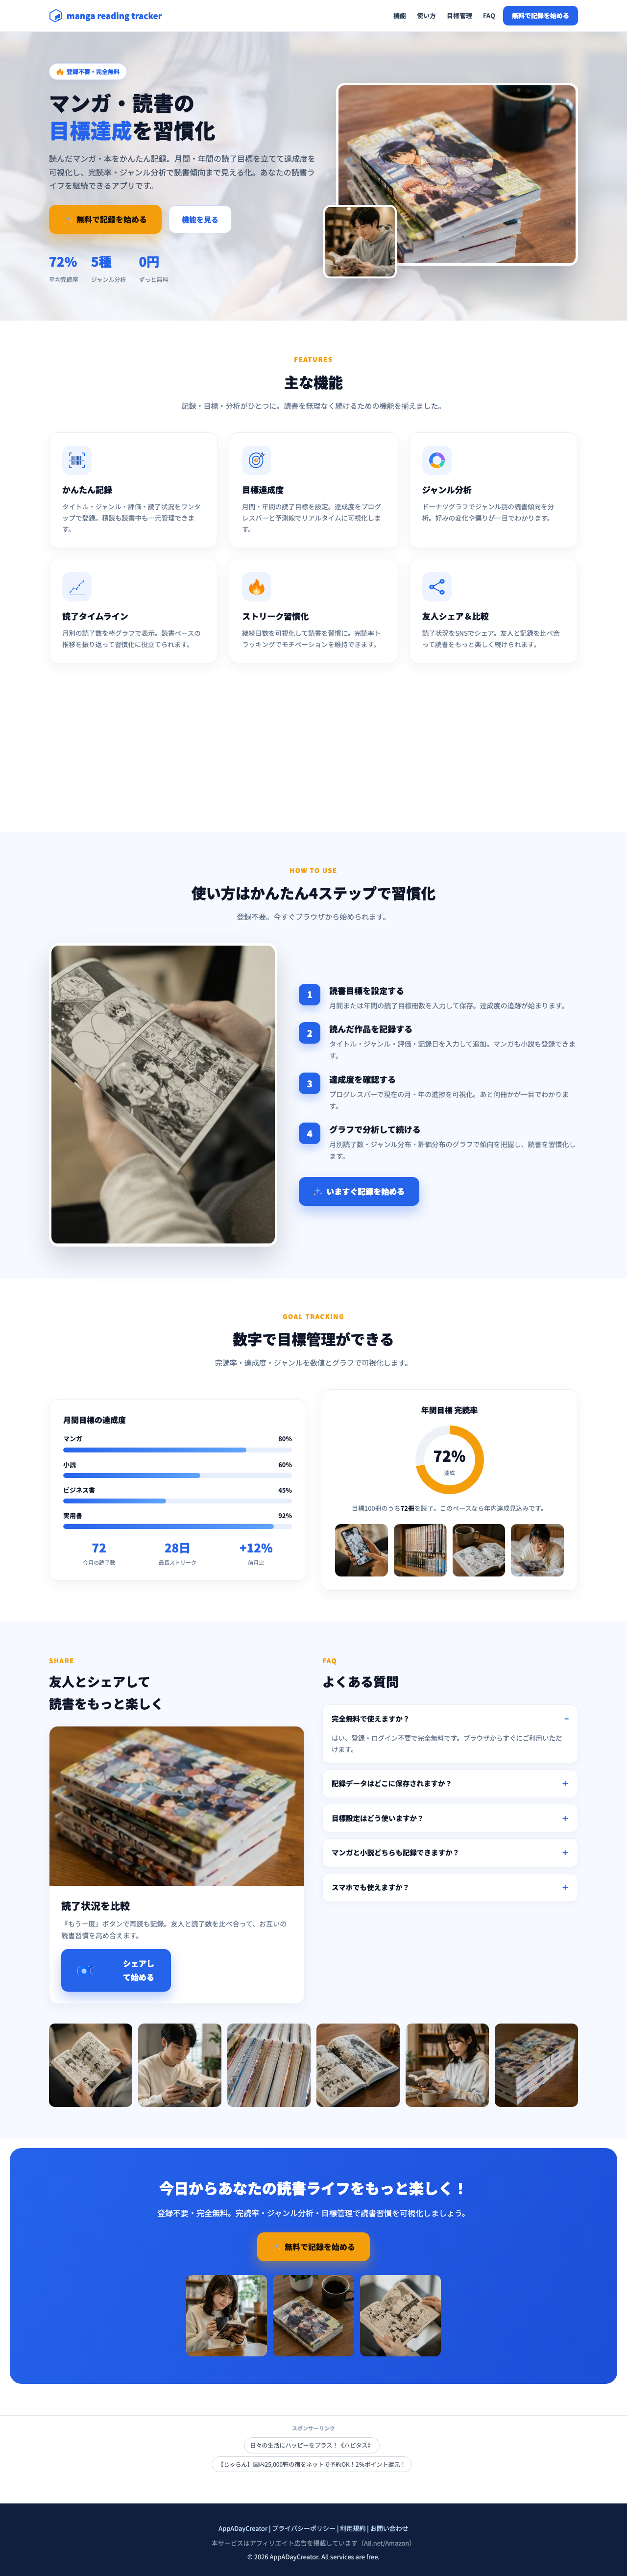
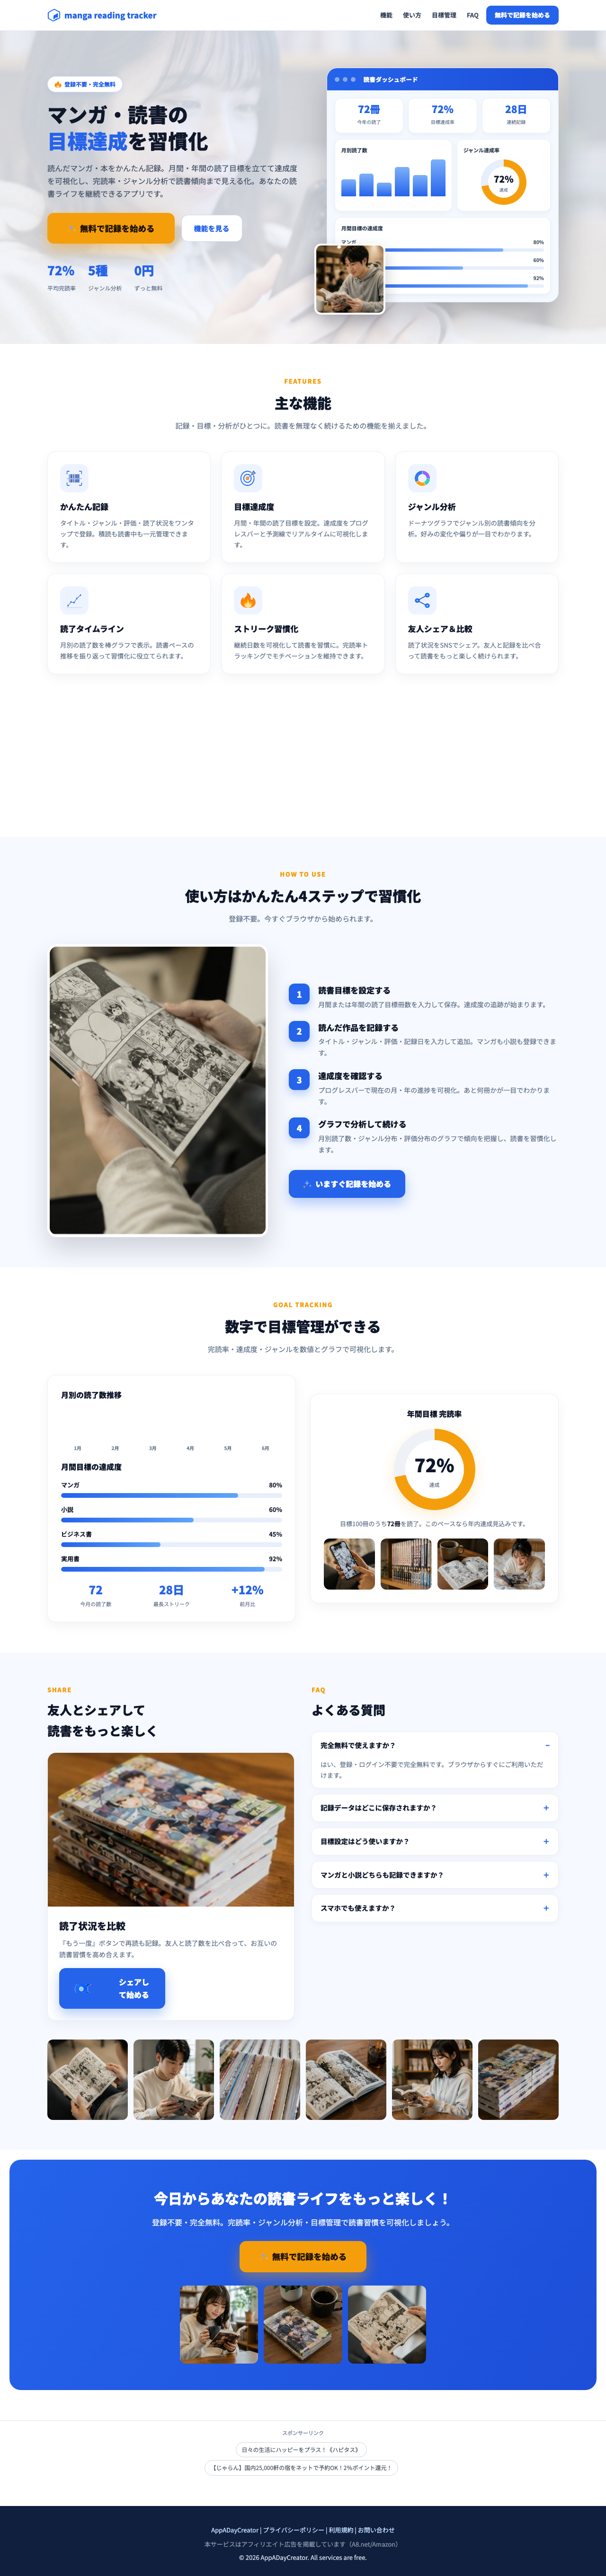
Rollback: step7 pass1 regressed (68->62)

diff --git a/lp/index.html b/lp/index.html
@@ -53,13 +53,13 @@ a{text-decoration:none;}
 /* hero */
 .hero{position:relative;overflow:hidden;background:linear-gradient(180deg,#eef4ff,#f6f9ff);}
 .hero .bg{position:absolute;inset:0;background:url('../assets/photos/photo_01.jpg') center/cover;opacity:.16;}
-.hero .inner{position:relative;display:grid;grid-template-columns:1.05fr .95fr;gap:48px;align-items:center;padding:78px 20px 88px;max-width:1120px;margin:0 auto;}
+.hero .inner{position:relative;display:grid;grid-template-columns:1.05fr .95fr;gap:40px;align-items:center;padding:64px 20px 72px;max-width:1120px;margin:0 auto;}
 .badge{display:inline-flex;align-items:center;gap:6px;background:#fff;border:1px solid #d6e2fb;color:var(--blue);padding:6px 14px;border-radius:30px;font-size:12px;font-weight:800;margin-bottom:18px;box-shadow:0 4px 14px rgba(37,99,235,.08);}
 .hero h1{font-size:42px;line-height:1.32;font-weight:900;letter-spacing:.5px;margin-bottom:18px;}
 .hero h1 .hl{color:var(--blue);}
 .hero p.lead{font-size:16px;color:#475569;margin-bottom:26px;}
 .ctas{display:flex;gap:14px;flex-wrap:wrap;align-items:center;}
-.btn-amber{background:var(--amber);color:#1f1300;font-weight:900;padding:18px 42px;border-radius:14px;font-size:17.5px;box-shadow:0 14px 30px rgba(245,158,11,.42);display:inline-flex;align-items:center;gap:9px;}
+.btn-amber{background:var(--amber);color:#1f1300;font-weight:900;padding:16px 30px;border-radius:14px;font-size:16px;box-shadow:0 12px 26px rgba(245,158,11,.38);display:inline-flex;align-items:center;gap:8px;}
 .btn-amber:hover{filter:brightness(1.05);}
 .btn-blue{background:var(--blue);color:#fff;font-weight:900;padding:16px 30px;border-radius:14px;font-size:16px;box-shadow:0 12px 26px rgba(37,99,235,.32);display:inline-flex;align-items:center;gap:8px;}
 .btn-out{border:1.5px solid #c7d6f5;color:var(--blue);font-weight:800;padding:15px 26px;border-radius:14px;font-size:15px;background:#fff;}
@@ -72,29 +72,6 @@ a{text-decoration:none;}
 .trust div b{display:block;font-size:26px;font-weight:900;color:var(--blue);}
 .trust div span{font-size:12px;color:var(--muted);}
 @media(max-width:860px){.hero .inner{grid-template-columns:1fr;padding:46px 20px 56px;}.hero h1{font-size:30px;}.hero .vis .mini{display:none;}}
-/* hero app mockup */
-.appshot{position:relative;background:#fff;border-radius:22px;box-shadow:0 34px 70px rgba(2,6,23,.22);border:1px solid #e6edf7;overflow:hidden;}
-.appshot .appbar{display:flex;align-items:center;gap:7px;padding:13px 16px;background:linear-gradient(90deg,var(--blue),var(--blue-d));}
-.appshot .appbar .dot{width:10px;height:10px;border-radius:50%;background:rgba(255,255,255,.45);}
-.appshot .appbar .t{margin-left:10px;color:#fff;font-weight:800;font-size:12.5px;letter-spacing:.3px;}
-.appbody{padding:16px;display:flex;flex-direction:column;gap:12px;background:#f4f8ff;}
-.kpis{display:grid;grid-template-columns:repeat(3,1fr);gap:10px;}
-.kpi{background:#fff;border:1px solid #e9eff8;border-radius:13px;padding:11px 6px;text-align:center;box-shadow:0 4px 12px rgba(2,6,23,.04);}
-.kpi b{display:block;font-size:21px;font-weight:900;color:var(--blue);line-height:1.1;}
-.kpi span{font-size:10px;color:var(--muted);}
-.appcards{display:grid;grid-template-columns:1.25fr 1fr;gap:10px;}
-.appcard{background:#fff;border:1px solid #e9eff8;border-radius:13px;padding:13px;box-shadow:0 4px 12px rgba(2,6,23,.04);}
-.appcard .h{font-size:11px;font-weight:800;color:#334155;margin-bottom:11px;}
-.bars{display:flex;align-items:flex-end;gap:7px;height:78px;}
-.bars i{flex:1;background:linear-gradient(180deg,#7cb0fb,var(--blue));border-radius:5px 5px 0 0;}
-.dnut{width:96px;height:96px;border-radius:50%;background:conic-gradient(var(--amber) 0 72%,#e7eefc 72% 100%);margin:2px auto 0;display:flex;align-items:center;justify-content:center;}
-.dnut .c{width:66px;height:66px;border-radius:50%;background:#fff;display:flex;flex-direction:column;align-items:center;justify-content:center;}
-.dnut .c b{font-size:19px;font-weight:900;color:var(--ink);}
-.dnut .c span{font-size:9px;color:var(--muted);}
-.appgoals .gr{display:flex;justify-content:space-between;font-size:10.5px;font-weight:700;color:#475569;margin-bottom:4px;}
-.appgoals .gb{height:7px;background:#e7eefc;border-radius:6px;overflow:hidden;margin-bottom:9px;}
-.appgoals .gb:last-child{margin-bottom:0;}
-.appgoals .gb i{display:block;height:100%;background:linear-gradient(90deg,var(--blue),#7cb0fb);border-radius:6px;}
 /* section */
 section{padding:64px 0;}
 .sec-head{text-align:center;margin-bottom:42px;}
@@ -129,13 +106,9 @@ section{padding:64px 0;}
 .progress .top{display:flex;justify-content:space-between;font-size:13px;font-weight:700;margin-bottom:6px;}
 .bar{height:10px;background:#e7eefc;border-radius:8px;overflow:hidden;}
 .bar i{display:block;height:100%;background:linear-gradient(90deg,var(--blue),#60a5fa);border-radius:8px;}
-.ring{width:172px;height:172px;border-radius:50%;background:conic-gradient(var(--amber) 0 72%,#eef2f7 72% 100%);display:flex;align-items:center;justify-content:center;margin:0 auto;box-shadow:0 10px 30px rgba(245,158,11,.18);}
-.ring .in{width:124px;height:124px;border-radius:50%;background:#fff;display:flex;flex-direction:column;align-items:center;justify-content:center;}
-.ring .in b{font-size:38px;font-weight:900;color:var(--ink);}
-.mbars{display:flex;align-items:flex-end;gap:9px;height:96px;margin:6px 0 18px;}
-.mbars .col{flex:1;display:flex;flex-direction:column;align-items:center;gap:5px;}
-.mbars .col i{width:100%;background:linear-gradient(180deg,#7cb0fb,var(--blue));border-radius:6px 6px 0 0;}
-.mbars .col span{font-size:10px;color:var(--muted);font-weight:700;}
+.ring{width:140px;height:140px;border-radius:50%;background:conic-gradient(var(--amber) 0 72%,#eef2f7 72% 100%);display:flex;align-items:center;justify-content:center;margin:0 auto;}
+.ring .in{width:104px;height:104px;border-radius:50%;background:#fff;display:flex;flex-direction:column;align-items:center;justify-content:center;}
+.ring .in b{font-size:30px;font-weight:900;color:var(--ink);}
 .ring .in span{font-size:11px;color:var(--muted);}
 .statrow{display:grid;grid-template-columns:repeat(3,1fr);gap:14px;text-align:center;margin-top:18px;}
 .statrow .num{font-size:24px;font-weight:900;color:var(--blue);}
@@ -206,32 +179,7 @@ footer a{color:#bfdbfe;}
       </div>
     </div>
     <div class="vis">
-      <div class="appshot">
-        <div class="appbar"><span class="dot"></span><span class="dot"></span><span class="dot"></span><span class="t">読書ダッシュボード</span></div>
-        <div class="appbody">
-          <div class="kpis">
-            <div class="kpi"><b>72冊</b><span>今年の読了</span></div>
-            <div class="kpi"><b>72%</b><span>目標達成率</span></div>
-            <div class="kpi"><b>28日</b><span>連続記録</span></div>
-          </div>
-          <div class="appcards">
-            <div class="appcard">
-              <div class="h">月別読了数</div>
-              <div class="bars"><i style="height:46%"></i><i style="height:62%"></i><i style="height:38%"></i><i style="height:80%"></i><i style="height:58%"></i><i style="height:100%"></i></div>
-            </div>
-            <div class="appcard">
-              <div class="h">ジャンル達成率</div>
-              <div class="dnut"><div class="c"><b>72%</b><span>達成</span></div></div>
-            </div>
-          </div>
-          <div class="appcard appgoals">
-            <div class="h">月間目標の達成度</div>
-            <div class="gr"><span>マンガ</span><span>80%</span></div><div class="gb"><i style="width:80%"></i></div>
-            <div class="gr"><span>小説</span><span>60%</span></div><div class="gb"><i style="width:60%"></i></div>
-            <div class="gr"><span>実用書</span><span>92%</span></div><div class="gb"><i style="width:92%"></i></div>
-          </div>
-        </div>
-      </div>
+      <div class="shot"><img src="../assets/photos/photo_02.jpg" alt="読書記録アプリのイメージ"></div>
       <div class="mini"><img src="../assets/photos/photo_09.jpg" alt=""></div>
     </div>
   </div>
@@ -290,16 +238,7 @@ footer a{color:#bfdbfe;}
     </div>
     <div class="metrics">
       <div class="metric-card">
-        <h3 style="font-size:16px;font-weight:900;margin-bottom:10px;">月別の読了数推移</h3>
-        <div class="mbars">
-          <div class="col"><i style="height:42%"></i><span>1月</span></div>
-          <div class="col"><i style="height:60%"></i><span>2月</span></div>
-          <div class="col"><i style="height:36%"></i><span>3月</span></div>
-          <div class="col"><i style="height:78%"></i><span>4月</span></div>
-          <div class="col"><i style="height:54%"></i><span>5月</span></div>
-          <div class="col"><i style="height:100%"></i><span>6月</span></div>
-        </div>
-        <h3 style="font-size:16px;font-weight:900;margin:4px 0 10px;">月間目標の達成度</h3>
+        <h3 style="font-size:16px;font-weight:900;margin-bottom:10px;">月間目標の達成度</h3>
         <div class="progress"><div class="top"><span>マンガ</span><span>80%</span></div><div class="bar"><i style="width:80%"></i></div></div>
         <div class="progress"><div class="top"><span>小説</span><span>60%</span></div><div class="bar"><i style="width:60%"></i></div></div>
         <div class="progress"><div class="top"><span>ビジネス書</span><span>45%</span></div><div class="bar"><i style="width:45%"></i></div></div>

diff --git a/index.html b/index.html
@@ -117,29 +117,11 @@ ins.adsbygoogle[data-ad-status="unfilled"]{display:none!important;margin:0!impor
 .hero2 h1 .hl{color:#fde68a;}
 .hero2 p.lead{font-size:15px;line-height:1.85;opacity:.95;margin:0 0 22px;}
 .hero2 .ctas{display:flex;gap:12px;flex-wrap:wrap;}
-.btn-amber{background:var(--amber);color:#1f1300;font-weight:900;padding:17px 38px;border-radius:13px;text-decoration:none;font-size:16.5px;box-shadow:0 12px 26px rgba(245,158,11,.42);display:inline-flex;align-items:center;gap:9px;border:none;cursor:pointer;}
+.btn-amber{background:var(--amber);color:#1f1300;font-weight:800;padding:14px 26px;border-radius:12px;text-decoration:none;font-size:15px;box-shadow:0 8px 20px rgba(245,158,11,.4);display:inline-flex;align-items:center;gap:8px;border:none;cursor:pointer;}
 .btn-amber:hover{filter:brightness(1.05);}
 .btn-ghost{background:rgba(255,255,255,.14);border:1.5px solid rgba(255,255,255,.6);color:#fff;font-weight:700;padding:14px 24px;border-radius:12px;text-decoration:none;font-size:14px;display:inline-flex;align-items:center;}
 .hero2 .shot{border-radius:16px;overflow:hidden;box-shadow:0 24px 50px rgba(2,6,23,.45);border:4px solid rgba(255,255,255,.85);}
 .hero2 .shot img{display:block;width:100%;height:100%;object-fit:cover;aspect-ratio:4/3;}
-.appshot{background:#fff;border-radius:20px;box-shadow:0 30px 60px rgba(2,6,23,.4);overflow:hidden;}
-.appshot .appbar{display:flex;align-items:center;gap:7px;padding:12px 15px;background:linear-gradient(90deg,#2563EB,#1d4ed8);}
-.appshot .appbar .dot{width:9px;height:9px;border-radius:50%;background:rgba(255,255,255,.45);}
-.appshot .appbar .t{margin-left:9px;color:#fff;font-weight:800;font-size:12px;}
-.appbody{padding:15px;display:flex;flex-direction:column;gap:11px;background:#f4f8ff;}
-.kpis{display:grid;grid-template-columns:repeat(3,1fr);gap:9px;}
-.kpi{background:#fff;border:1px solid #e9eff8;border-radius:12px;padding:10px 5px;text-align:center;}
-.kpi b{display:block;font-size:20px;font-weight:900;color:#2563EB;line-height:1.1;}
-.kpi span{font-size:10px;color:#64748b;}
-.appcards{display:grid;grid-template-columns:1.25fr 1fr;gap:9px;}
-.appcard{background:#fff;border:1px solid #e9eff8;border-radius:12px;padding:12px;}
-.appcard .h{font-size:11px;font-weight:800;color:#334155;margin-bottom:10px;}
-.bars{display:flex;align-items:flex-end;gap:6px;height:72px;}
-.bars i{flex:1;background:linear-gradient(180deg,#7cb0fb,#2563EB);border-radius:5px 5px 0 0;}
-.dnut{width:90px;height:90px;border-radius:50%;background:conic-gradient(#F59E0B 0 72%,#e7eefc 72% 100%);margin:0 auto;display:flex;align-items:center;justify-content:center;}
-.dnut .c{width:62px;height:62px;border-radius:50%;background:#fff;display:flex;flex-direction:column;align-items:center;justify-content:center;}
-.dnut .c b{font-size:18px;font-weight:900;color:#0f172a;}
-.dnut .c span{font-size:9px;color:#64748b;}
 .hero2 .hstats{display:flex;gap:18px;margin-top:22px;}
 .hero2 .hstats div{font-size:12px;opacity:.92;}
 .hero2 .hstats b{display:block;font-size:24px;font-weight:800;color:#fde68a;}
@@ -219,26 +201,7 @@ ins.adsbygoogle[data-ad-status="unfilled"]{display:none!important;margin:0!impor
             <div><b>0円</b>ずっと無料</div>
           </div>
         </div>
-        <div class="appshot">
-          <div class="appbar"><span class="dot"></span><span class="dot"></span><span class="dot"></span><span class="t">読書ダッシュボード</span></div>
-          <div class="appbody">
-            <div class="kpis">
-              <div class="kpi"><b>72冊</b><span>今年の読了</span></div>
-              <div class="kpi"><b>72%</b><span>目標達成率</span></div>
-              <div class="kpi"><b>28日</b><span>連続記録</span></div>
-            </div>
-            <div class="appcards">
-              <div class="appcard">
-                <div class="h">月別読了数</div>
-                <div class="bars"><i style="height:46%"></i><i style="height:62%"></i><i style="height:38%"></i><i style="height:80%"></i><i style="height:58%"></i><i style="height:100%"></i></div>
-              </div>
-              <div class="appcard">
-                <div class="h">ジャンル達成率</div>
-                <div class="dnut"><div class="c"><b>72%</b><span>達成</span></div></div>
-              </div>
-            </div>
-          </div>
-        </div>
+        <div class="shot"><img src="assets/photos/photo_02.jpg" alt="読書を記録するイメージ"></div>
       </div>
     </section>
 <div style="background:#4338ca;padding:5px 12px;text-align:right;font-size:.78rem"><a href="/blog/" style="color:#c7d2fe;text-decoration:none;font-weight:600">📖 コラム</a>&nbsp;｜&nbsp;<a href="/" style="color:#c7d2fe;text-decoration:none">ホーム</a></div>